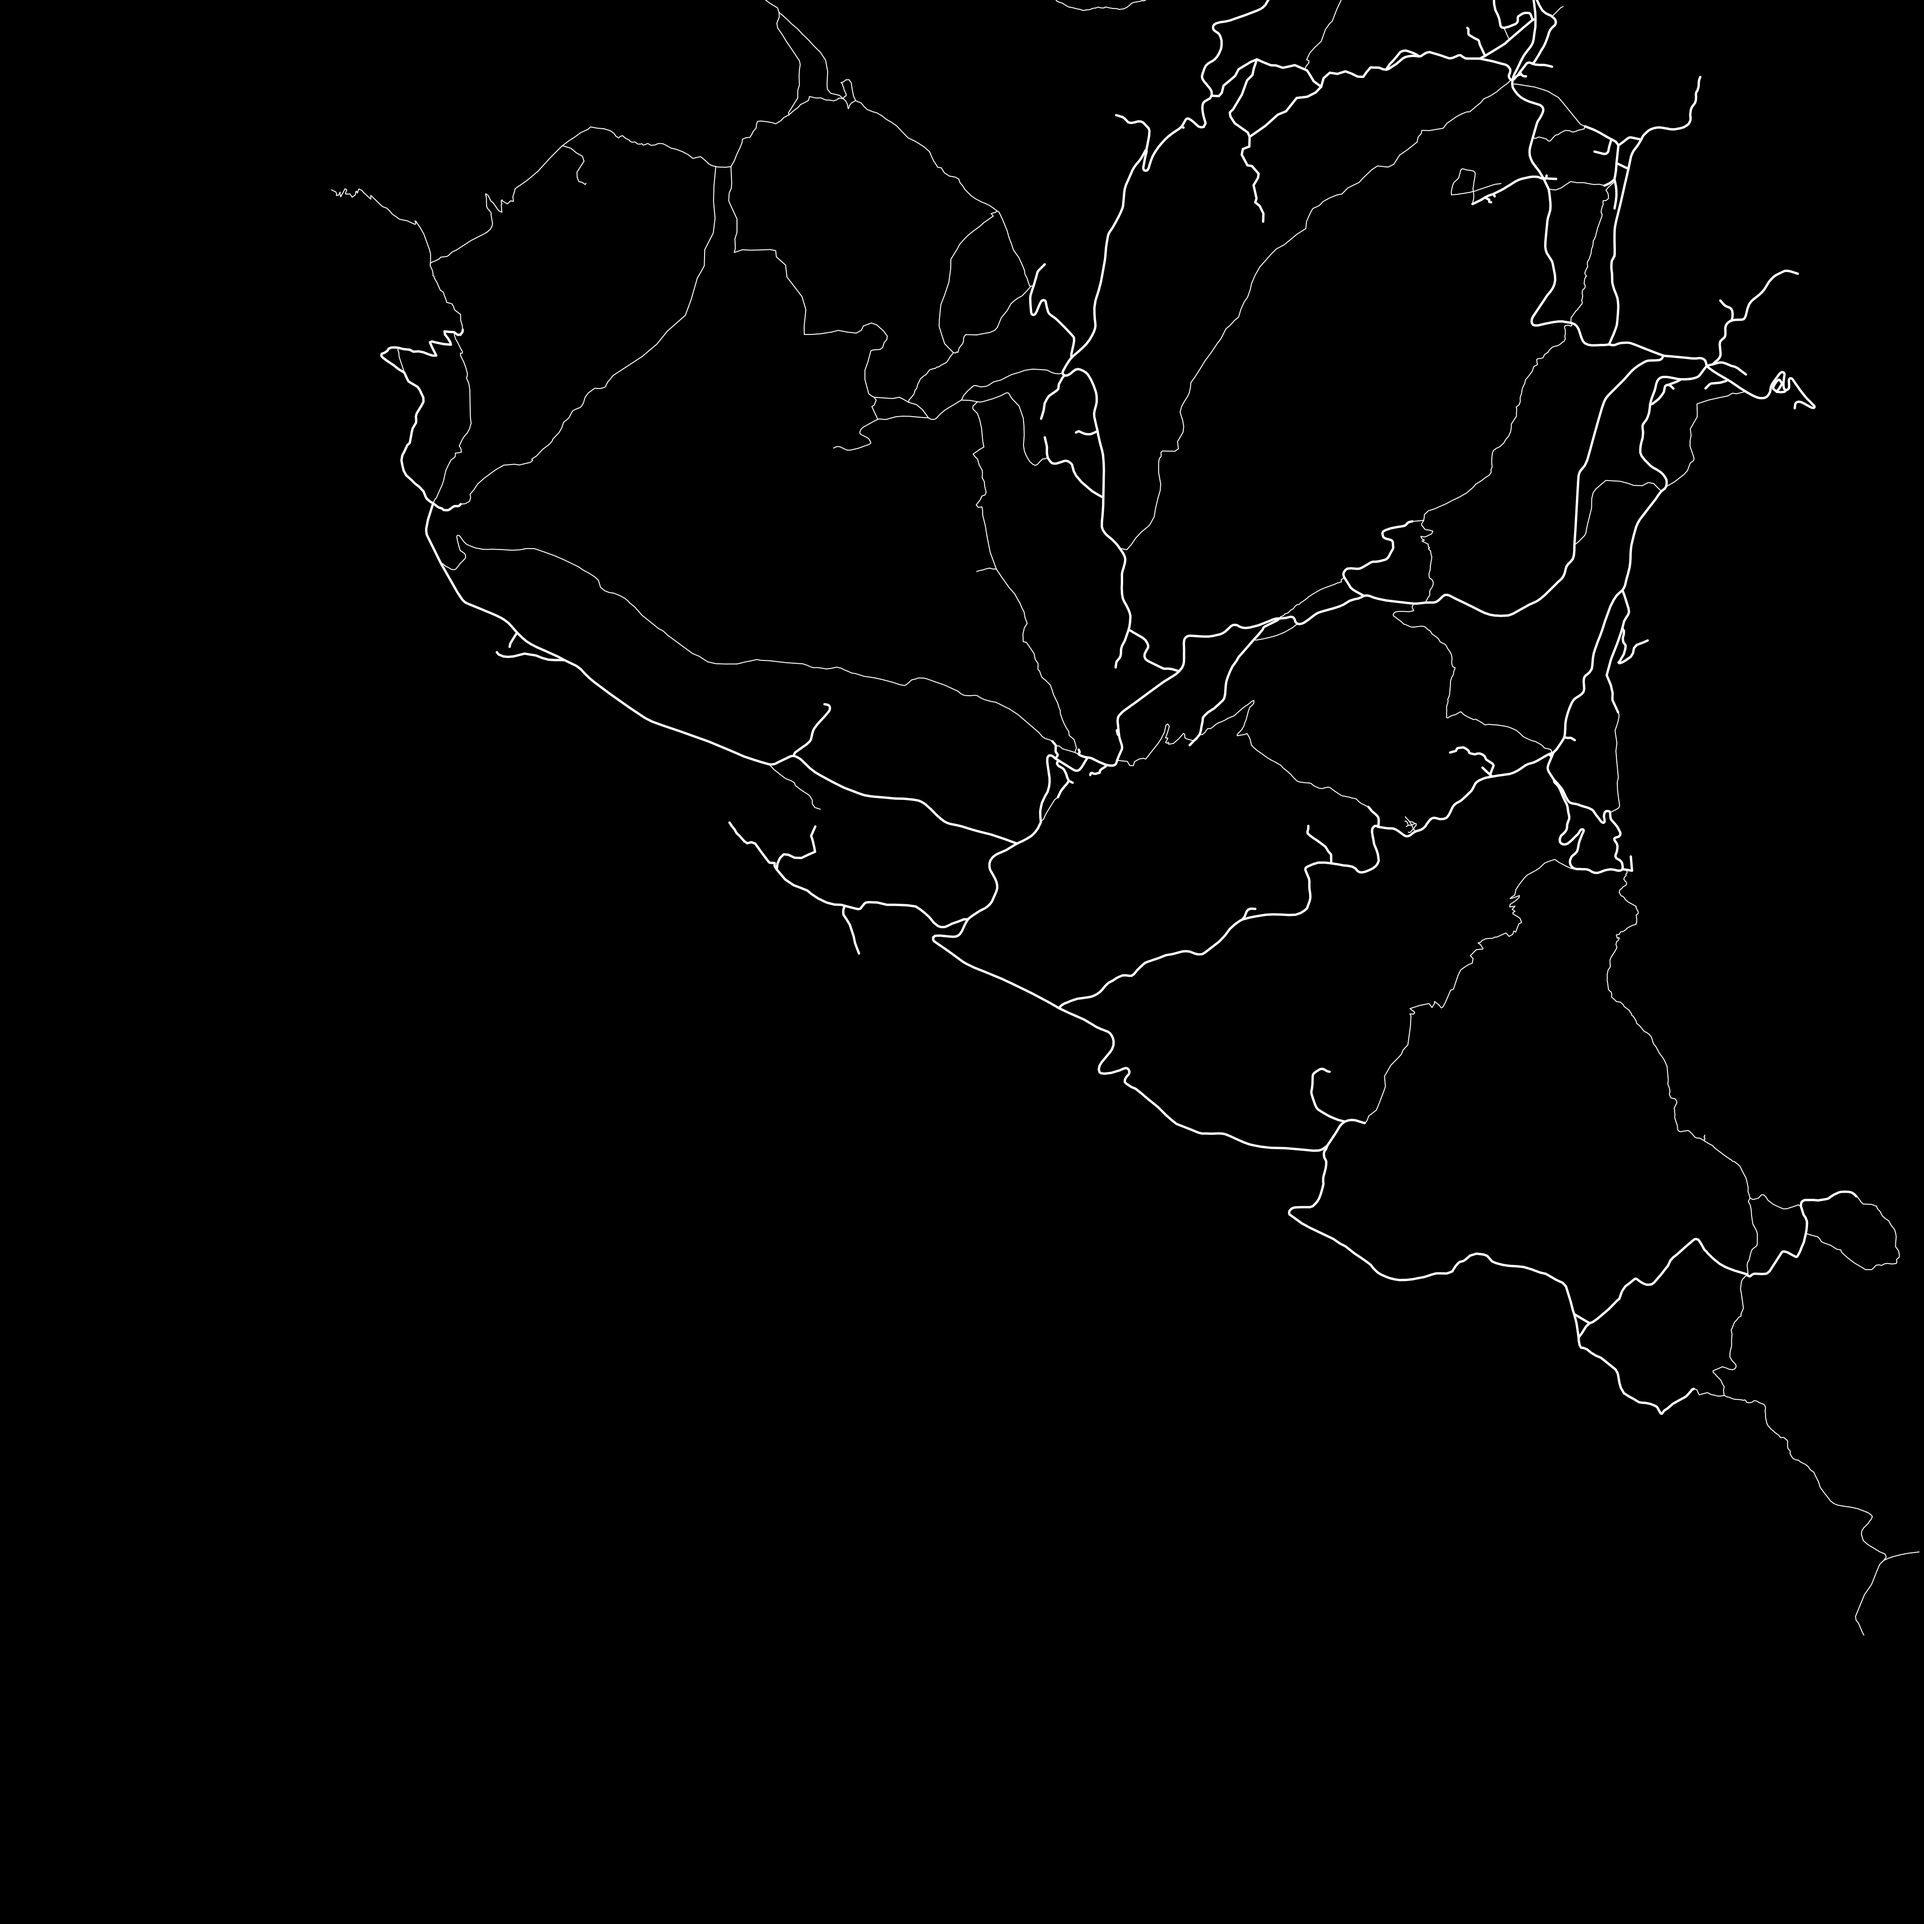
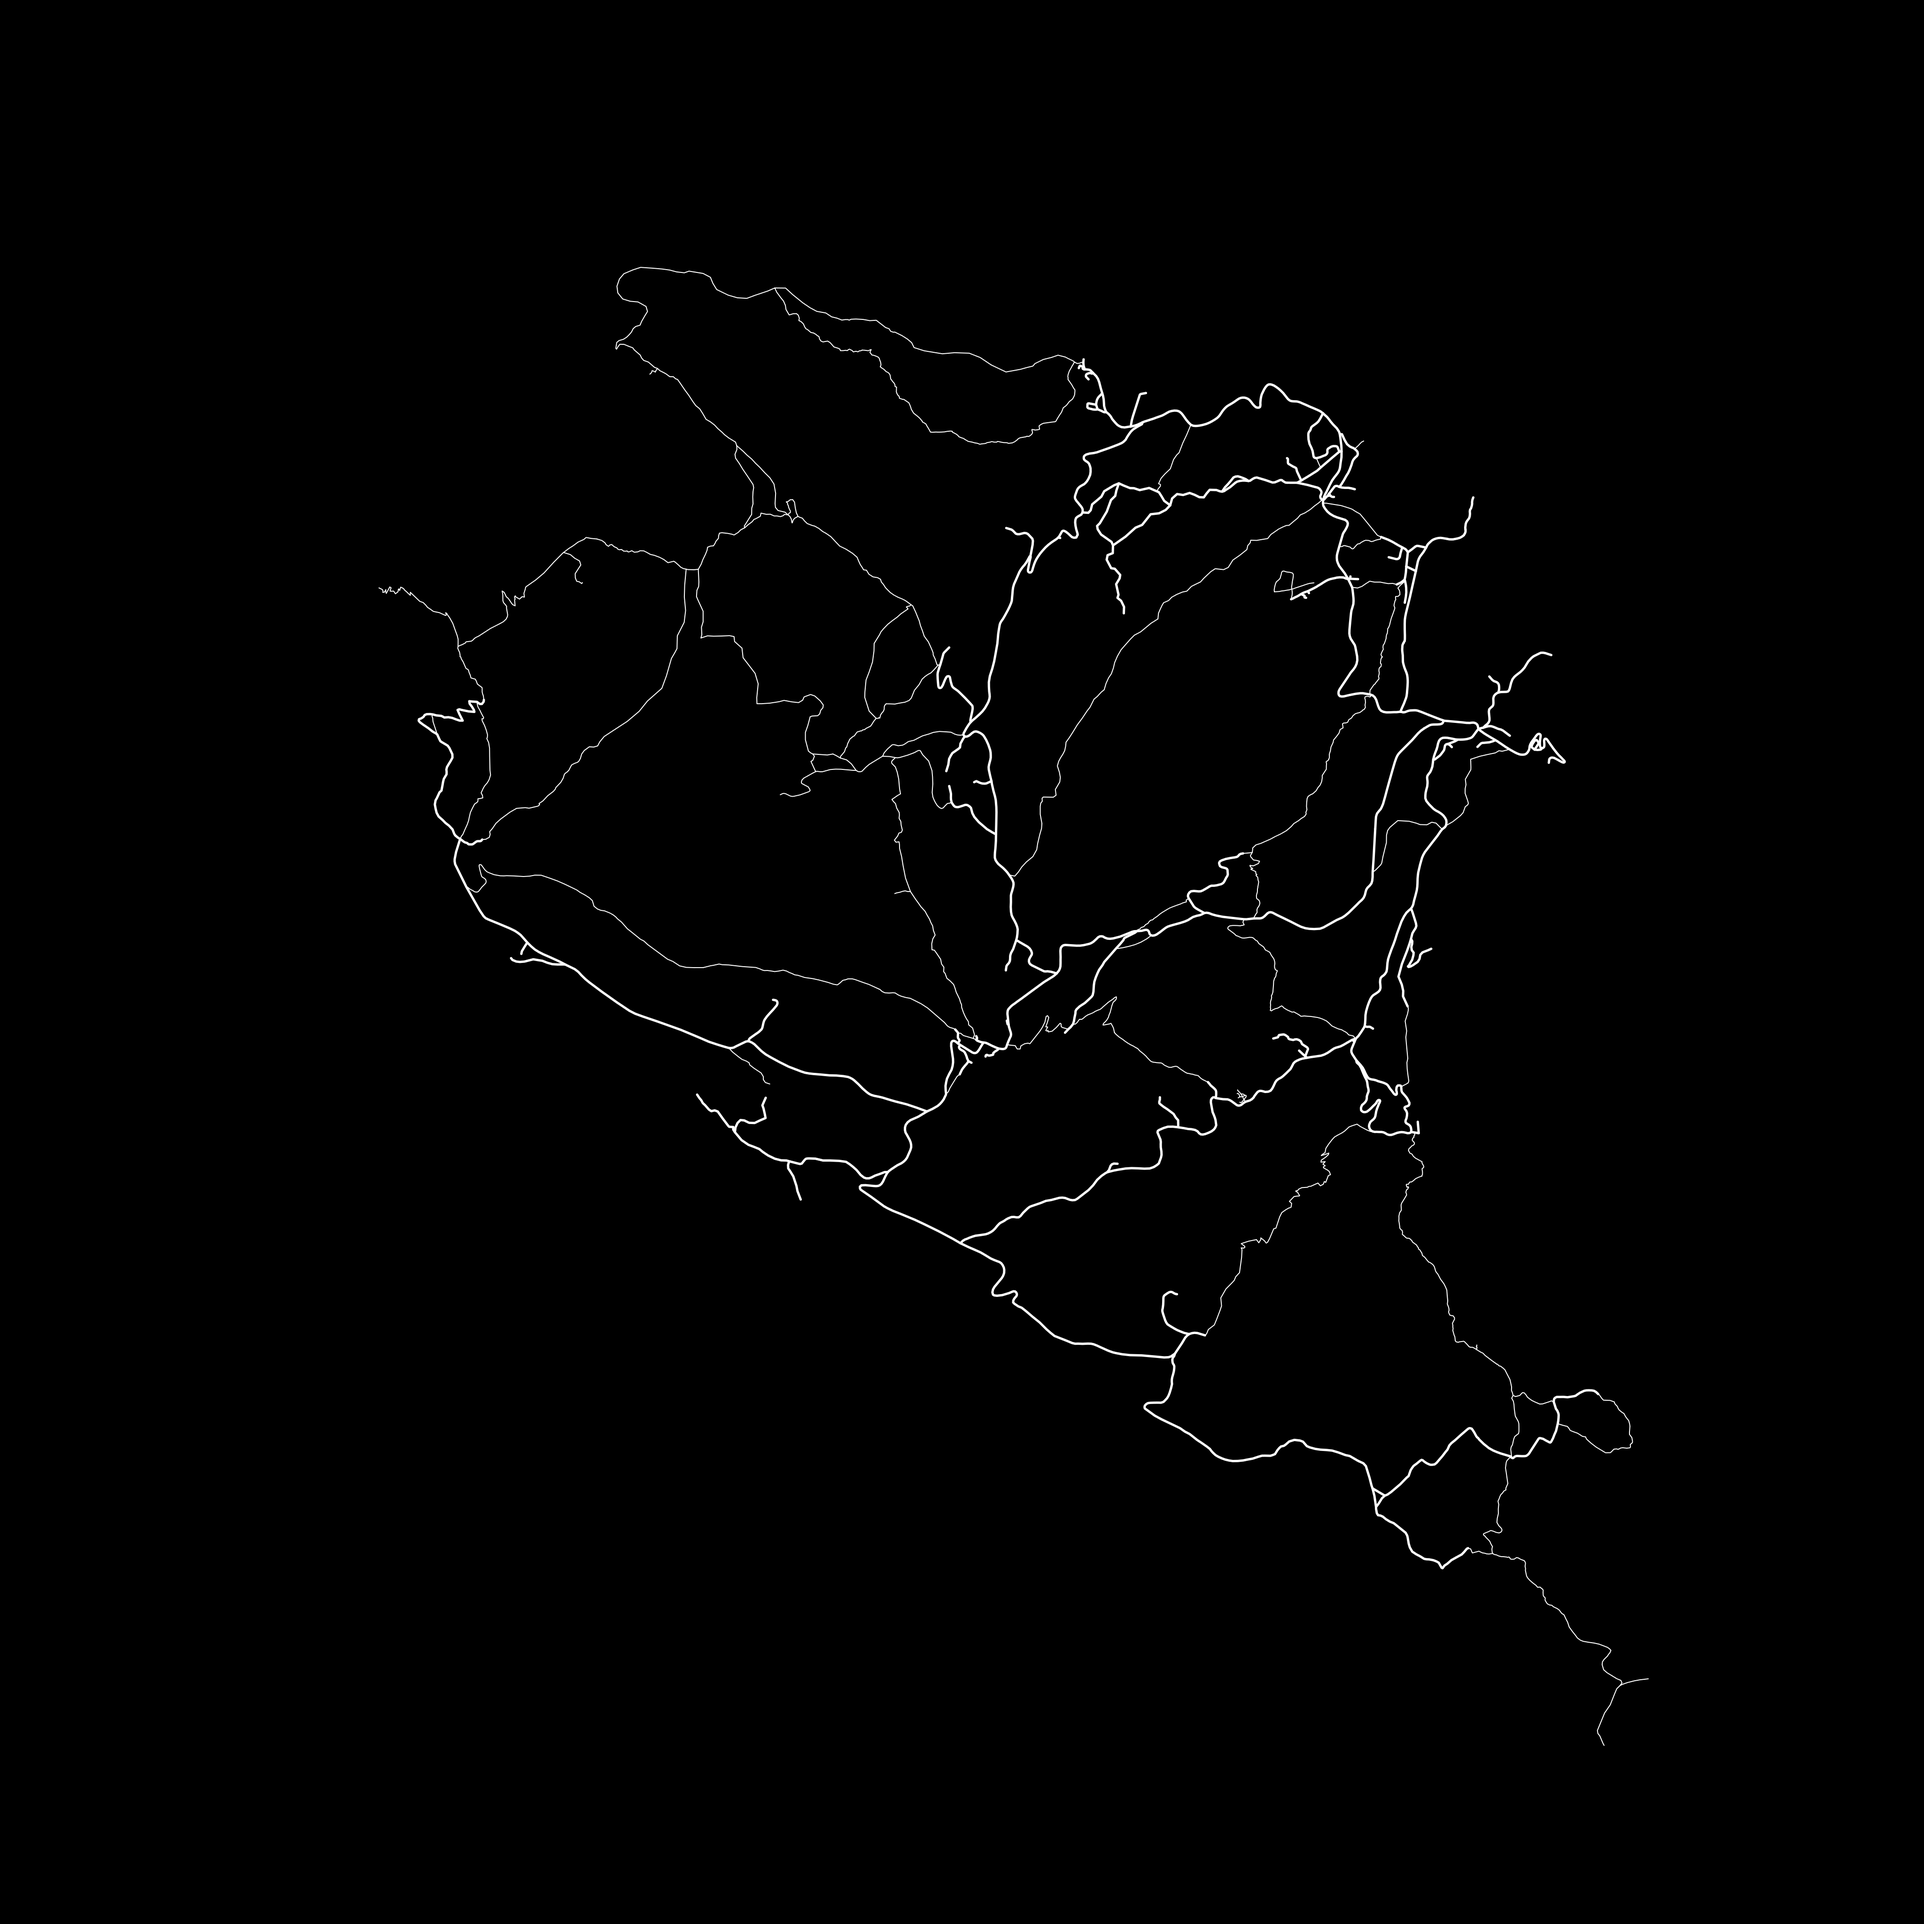
fix(gavdos): full-island 10240m window (8192 clipped E+N coasts), scene gavdos implies world param, verify tools import GavdosConst (border land 0, IoU 0.9641)

diff --git a/src/gavdos/GavdosConst.ts b/src/gavdos/GavdosConst.ts
@@ -6,28 +6,32 @@
  * → north is −Z in world space → NORTH_SIGN = -1
  *   (a point north of origin has a more-negative world Z)
  *
- * World size: 8192 m (full island + sea margin).
+ * World size: 10240 m (full island + sea margin).
+ * Measured main-island land extents in the source DEM (h > 0):
+ *   lon 24.0366..24.1325, lat 34.8010..34.8763  (≈ 8.8 × 8.4 km)
+ * → 8192 m clipped the east (~700 m) and north (~1.4 km) coasts;
+ *   10240 m centered below leaves 690–1050 m of sea on every side.
  * setActiveWorldSize(GAVDOS_WORLD_SIZE) is called in TerrainScene.ts
  * before any world system is constructed.
  */
 
-/** Full-island world size in meters (8192 = CENTER ± 4096 m). */
-export const GAVDOS_WORLD_SIZE = 8192;
+/** Full-island world size in meters (10240 = CENTER ± 5120 m). */
+export const GAVDOS_WORLD_SIZE = 10_240;
 
-/** World center in geographic coordinates */
-export const GAVDOS_CENTER_LON = 24.080;
-export const GAVDOS_CENTER_LAT = 34.827;
+/** World center in geographic coordinates (midpoint of measured land extents) */
+export const GAVDOS_CENTER_LON = 24.0846;
+export const GAVDOS_CENTER_LAT = 34.8387;
 
 /** Meters per degree at this latitude */
 export const M_PER_DEG_LAT = 111_132;
-/** 111320 × cos(34.827°) ≈ 91393 */
-export const M_PER_DEG_LON = 91_393;
+/** 111320 × cos(34.8387°) ≈ 91376 */
+export const M_PER_DEG_LON = 91_376;
 
 /**
- * World window half-extent in meters (GAVDOS_WORLD_SIZE / 2 = 4096 m).
- * Full island + sea margin: CENTER ± 4096 m.
+ * World window half-extent in meters (GAVDOS_WORLD_SIZE / 2 = 5120 m).
+ * Full island + sea margin: CENTER ± 5120 m.
  */
-export const GAVDOS_CROP_HALF = GAVDOS_WORLD_SIZE / 2; // 4096 meters
+export const GAVDOS_CROP_HALF = GAVDOS_WORLD_SIZE / 2; // 5120 meters
 
 /**
  * North sign in Three.js world coordinates.

diff --git a/src/debug/TerrainScene.ts b/src/debug/TerrainScene.ts
@@ -39,7 +39,7 @@ export async function buildTerrainScene(ctx: WorldContext): Promise<void> {
 
   let hf: Heightfield;
   if (params.world === 'gavdos') {
-    // Set world size BEFORE any system is constructed (gavdos = full island 8192 m)
+    // Set world size BEFORE any system is constructed (gavdos = full island 10240 m)
     setActiveWorldSize(GAVDOS_WORLD_SIZE);
     // Real-data world: skip procedural synthesis/erosion/hydrology
     const cfg = qualityConfig(params.preset);
@@ -50,11 +50,11 @@ export async function buildTerrainScene(ctx: WorldContext): Promise<void> {
       mp,
       (p, m) => ctx.progress(p * 0.92, m),
     );
-    // Gavdos spawn: 1400 m above origin — whole island reads in frame at 8192 m world size
+    // Gavdos spawn: 1800 m above origin — whole island reads in frame at 10240 m world size
     if (params.cam === null) {
-      ctx.hooks.initialPose = { p: [0, 1400, 0], yaw: 0, pitch: -0.8 };
+      ctx.hooks.initialPose = { p: [0, 1800, 0], yaw: 0, pitch: -0.8 };
       ctx.hooks.initialPoseMode = 'fly';
-      engine.camera.position.set(0, 1400, 0);
+      engine.camera.position.set(0, 1800, 0);
     }
   } else {
     hf = await Heightfield.generate(

diff --git a/tools/gavdos/build-data.ts b/tools/gavdos/build-data.ts
@@ -26,10 +26,17 @@ const CACHE_DIR = path.resolve(__dirname, ".cache");
 const CACHE_FILE = path.join(CACHE_DIR, "overpass.json");
 
 // World window for roadmask
-const ROAD_LON_MIN = 24.0352;
-const ROAD_LON_MAX = 24.1248;
-const ROAD_LAT_MIN = 34.7901;
-const ROAD_LAT_MAX = 34.8639;
+// Window comes from the single geodesy source of truth (node-importable, dependency-free)
+import {
+  GAVDOS_WIN_WEST,
+  GAVDOS_WIN_EAST,
+  GAVDOS_WIN_SOUTH,
+  GAVDOS_WIN_NORTH,
+} from "../../src/gavdos/GavdosConst";
+const ROAD_LON_MIN = GAVDOS_WIN_WEST;
+const ROAD_LON_MAX = GAVDOS_WIN_EAST;
+const ROAD_LAT_MIN = GAVDOS_WIN_SOUTH;
+const ROAD_LAT_MAX = GAVDOS_WIN_NORTH;
 const RASTER_SIZE = 4096;
 
 // Overpass bbox: south,west,north,east

diff --git a/src/main.ts b/src/main.ts
@@ -63,7 +63,12 @@ async function boot(): Promise<void> {
   registerScene('shadowtest', buildShadowTestScene);
   // 'world' becomes the streamed open world once terrain tiles land.
   registerScene('world', buildTerrainScene);
-  // 'gavdos' = same render scene but with real DEM data behind ?world=gavdos
+  // 'gavdos' = same render scene but with real DEM data behind ?world=gavdos.
+  // The scene name implies the world source so `?scene=gavdos` (and tools/shoot.ts,
+  // which has no world passthrough) boots the real island without a second param.
+  if (params.scene === 'gavdos' && params.world !== 'gavdos') {
+    params.world = 'gavdos';
+  }
   registerScene('gavdos', buildTerrainScene);
 
   const ctx: WorldContext = {

diff --git a/tools/gavdos/verify-world-data.ts b/tools/gavdos/verify-world-data.ts
@@ -13,13 +13,9 @@
 import { readFileSync } from 'fs';
 import { join, resolve } from 'path';
 
-// --- Import GavdosConst values inline (avoids browser-only imports) ----------
+// --- Geodesy from the single source of truth ---------------------------------
 // Recomputed here verbatim from GavdosConst.ts so this file is node-runnable.
-const GAVDOS_CENTER_LON = 24.080;
-const GAVDOS_CENTER_LAT = 34.827;
-const M_PER_DEG_LAT = 111_132;
-const M_PER_DEG_LON = 91_393;
-const GAVDOS_CROP_HALF = 4096; // GAVDOS_WORLD_SIZE / 2 = 8192 / 2
+import { GAVDOS_CENTER_LON, GAVDOS_CENTER_LAT, M_PER_DEG_LAT, M_PER_DEG_LON, GAVDOS_CROP_HALF } from "../../src/gavdos/GavdosConst";
 
 const SRC_WIDTH = 2048;
 const SRC_HEIGHT = 1664;

diff --git a/tools/gavdos/iou.ts b/tools/gavdos/iou.ts
@@ -23,11 +23,7 @@ import { readFileSync, existsSync } from 'fs';
 import { join, resolve } from 'path';
 
 // --- GavdosConst values (duplicated for node-runnable tool) ------------------
-const GAVDOS_CENTER_LON = 24.080;
-const GAVDOS_CENTER_LAT = 34.827;
-const M_PER_DEG_LAT = 111_132;
-const M_PER_DEG_LON = 91_393;
-const GAVDOS_CROP_HALF = 4096; // GAVDOS_WORLD_SIZE / 2 = 8192 / 2
+import { GAVDOS_CENTER_LON, GAVDOS_CENTER_LAT, M_PER_DEG_LAT, M_PER_DEG_LON, GAVDOS_CROP_HALF } from "../../src/gavdos/GavdosConst";
 const SRC_WIDTH = 2048;
 const SRC_HEIGHT = 1664;
 const SRC_WEST = 23.9;

diff --git a/src/gavdos/GavdosWorld.ts b/src/gavdos/GavdosWorld.ts
@@ -7,7 +7,7 @@
  * with Gavdos DEM data.
  *
  * World-size path taken: WORLD_SIZE=4096 (engine constant). Parameterizing
- * 8192 would touch >10 subsystems. V1 shows the central 4×4 km of Gavdos
+ * World size 10240 m via setActiveWorldSize — full island (see GavdosConst)
  * (CENTER ± 2048 m ≈ lon [24.058, 24.102] / lat [34.808, 34.846]).
  *
  * Water level: 0 m (sea level). The procedural LAKE_LEVEL=142 is bypassed

diff --git a/GAVDOS.md b/GAVDOS.md
@@ -56,6 +56,7 @@ CENTER 24.080 E / 34.827 N · M_PER_DEG_LAT 111132 · M_PER_DEG_LON 91393 · GAV
 - Far field: engine far shell (macroTerrain 'far' on neutral mp) renders procedural hills beyond
   world edge. Not flat sea. Noted as deviation from spec — T3 will add ocean plane.
 - Water level: 0 (sea level). LAKE_LEVEL=142 is bypassed — no hydrology pass in gavdos.
+- T2c (orchestrator): measured island extents 8.8×8.4 km — 8192 clipped E+N coasts. WORLD_SIZE → 10240, center (24.0846, 34.8387), M_PER_DEG_LON 91376. Roadmask rebuilt for new window. verify-world-data + iou now IMPORT GavdosConst (they had duplicated stale consts). Gates: border land texels 0, max h 367.94, IoU 0.9641, typecheck 0.
 ### T3 ocean & shore — status: pending
 ### T4 mediterranean vegetation — status: pending
 ### T5 buildings/roads/walls — status: pending
